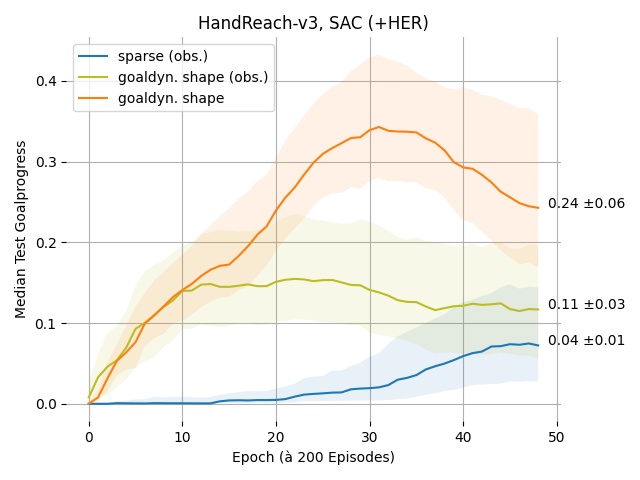
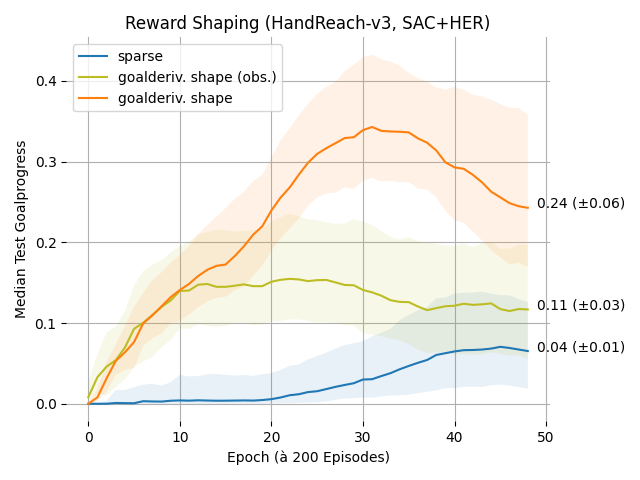
readme

diff --git a/src/custom_envs/mom_fetchpush/plot.py b/src/custom_envs/mom_fetchpush/plot.py
@@ -168,8 +168,18 @@ def smooth_iqr(multidata):
 # HAND REACH ======================= (sorted by performance)
 
 GP_sparse_HER_unobs_baseline = smooth_iqr([
+    '/home/t14/Documents/tuhh/dsf/Scilab-RL/data/09c63aa/shaped-handreach-v3/16-29-31/goalprogress.dat',
+    '/home/t14/Documents/tuhh/dsf/Scilab-RL/data/09c63aa/shaped-handreach-v3/16-33-58/goalprogress.dat',
+    '/home/t14/Documents/tuhh/dsf/Scilab-RL/data/09c63aa/shaped-handreach-v3/16-34-00/goalprogress.dat',
+    '/home/t14/Documents/tuhh/dsf/Scilab-RL/data/09c63aa/shaped-handreach-v3/16-34-02/goalprogress.dat',
+    '/home/t14/Documents/tuhh/dsf/Scilab-RL/data/09c63aa/shaped-handreach-v3/16-34-04/goalprogress.dat',
 ])
 SR_sparse_HER_unobs_baseline = smooth_iqr([
+    '/home/t14/Documents/tuhh/dsf/Scilab-RL/data/09c63aa/shaped-handreach-v3/16-29-31/success_rate.dat',
+    '/home/t14/Documents/tuhh/dsf/Scilab-RL/data/09c63aa/shaped-handreach-v3/16-33-58/success_rate.dat',
+    '/home/t14/Documents/tuhh/dsf/Scilab-RL/data/09c63aa/shaped-handreach-v3/16-34-00/success_rate.dat',
+    '/home/t14/Documents/tuhh/dsf/Scilab-RL/data/09c63aa/shaped-handreach-v3/16-34-02/success_rate.dat',
+    '/home/t14/Documents/tuhh/dsf/Scilab-RL/data/09c63aa/shaped-handreach-v3/16-34-04/success_rate.dat',
 ])
 
 GP_sparse_HER_obs_baseline = smooth_iqr([
@@ -304,42 +314,42 @@ SR_redesigned_reduced = smooth_iqr([
 
 
 all = { # C1
-    'sparse (obs.)': GP_sparse_HER_obs_baseline,
-    # 'sparse': GP_sparse_HER_unobs_baseline,
-    'goaldyn. shape (obs.)': GP_shaped_HER_obs,
-    'goaldyn. shape': GP_shaped_HER_unobs,
+    # 'sparse (obs.)': GP_sparse_HER_obs_baseline,
+    'sparse': GP_sparse_HER_unobs_baseline,
+    'goalderiv. shape (obs.)': GP_shaped_HER_obs,
+    'goalderiv. shape': GP_shaped_HER_unobs,
 }
 
 all = { # C2
-    'sparse (obs.)': GP_sparse_HER_obs_baseline,
-    'goaldyn. design': GP_redesigned_HER_unobs,
+    'sparse': GP_sparse_HER_unobs_baseline,
+    'goalderiv. design': GP_redesigned_HER_unobs,
 }
 
 all = { # C3
-    'sparse (obs.)': GP_sparse_HER_obs_baseline,
-    'goaldyn. design (augm.)': GP_redesigned_HER_augmented,
+    'sparse': GP_sparse_HER_unobs_baseline,
+    'goalderiv. design (augm.)': GP_redesigned_HER_augmented,
 }
 
 all = { # C4
-    'sparse (obs.)': GP_sparse_HER_obs_baseline,
-    # 'goaldyn. design (red.)': GP_redesigned_HER_reduced,
-    # 'goaldyn. design (red., no HER)': GP_redesigned_reduced,
+    'sparse': GP_sparse_HER_unobs_baseline,
+    # 'goalderiv. design (red.)': GP_redesigned_HER_reduced,
+    'goalderiv. design (red., no HER)': GP_redesigned_reduced,
 }
 
-all = { # C2, C3, C4
-    'sparse (obs.)': GP_sparse_HER_obs_baseline,
-    'goaldyn. shape': GP_shaped_HER_unobs,
-    'goaldyn. design': GP_redesigned_HER_unobs,
-    'goaldyn. design (augm.)': GP_redesigned_HER_augmented,
-    'goaldyn. design (red., no HER)': GP_redesigned_reduced,
-}
+# all = { # C2, C3, C4
+#     'sparse': GP_sparse_HER_unobs_baseline,
+#     'goalderiv. shape': GP_shaped_HER_unobs,
+#     'goalderiv. design': GP_redesigned_HER_unobs,
+#     'goalderiv. design (augm.)': GP_redesigned_HER_augmented,
+#     'goalderiv. design (red., no HER)': GP_redesigned_reduced,
+# }
 
-# all = { # C4 (successrate)
-#     'sparse (obs.)': SR_sparse_HER_obs_baseline,
-#     'goaldyn. shape': SR_shaped_HER_unobs,
-#     'goaldyn. design': SR_redesigned_HER_unobs,
-#     'goaldyn. design (augm.)': SR_redesigned_HER_augmented,
-#     'goaldyn. design (red., no HER)': SR_redesigned_reduced,
+# all = { # C2, C3, C4 (successrate)
+#     'sparse': SR_sparse_HER_unobs_baseline,
+#     'goalderiv. shape': SR_shaped_HER_unobs,
+#     'goalderiv. design': SR_redesigned_HER_unobs,
+#     'goalderiv. design (augm.)': SR_redesigned_HER_augmented,
+#     'goalderiv. design (red., no HER)': SR_redesigned_reduced,
 # }
 
 
@@ -348,13 +358,13 @@ metric = pd.concat(metric, axis=1, ignore_index=True)
 metric.columns = all.keys()
 
 colormap = {
-    'sparse (obs.)': '#1f77b4',
-    'sparse': '#17becf',
-    'goaldyn. shape (obs.)': '#bcbd22',
-    'goaldyn. shape': '#ff7f0e',
-    'goaldyn. design': '#2ca02c',
-    'goaldyn. design (augm.)': '#d62728',
-    'goaldyn. design (red., no HER)': '#9467bd',
+    'sparse (obs.)': '#17becf',
+    'sparse': '#1f77b4',
+    'goalderiv. shape (obs.)': '#bcbd22',
+    'goalderiv. shape': '#ff7f0e',
+    'goalderiv. design': '#2ca02c',
+    'goalderiv. design (augm.)': '#d62728',
+    'goalderiv. design (red., no HER)': '#9467bd',
     # '#8c564b',
     # '#e377c2',
     # '#7f7f7f',
@@ -364,7 +374,7 @@ colormap = {
 colors = [colormap[key] for key in all.keys()]
 
 ax = metric.plot(color=colors)
-ax.set_title('HandReach-v3, SAC (+HER)')
+ax.set_title('Observation Reduction (HandReach-v3, SAC+HER)')
 ax.set_ylabel('Median Test Goalprogress')
 ax.set_xlabel('Epoch (à 200 Episodes)')
 ax.set_prop_cycle(plt.cycler(color=colors))
@@ -375,7 +385,7 @@ ax.set_axisbelow(True)
 # iqr
 for ex in all.values():
     ax.fill_between(x=ex['epoch'], y1=ex['q25'], y2=ex['q75'], alpha=0.1)
-    ax.text(x=49, y=ex['metric'].tail(1), s=f"{ex.attrs['aucs_mean']} ±{ex.attrs['aucs_std']}")
+    ax.text(x=49, y=ex['metric'].tail(1), s=f"{ex.attrs['aucs_mean']} (±{ex.attrs['aucs_std']})")
 
 # plt.gca().set_color_cycle(['red', 'green', 'blue', 'yellow'])
 plt.tight_layout()

diff --git a/src/custom_envs/goaldyn_handreach/shaped_handreach_env.py b/src/custom_envs/goaldyn_handreach/shaped_handreach_env.py
@@ -68,12 +68,12 @@ class ShapedHandReachEnv(MujocoHandReachEnv):
 
 
         # obs reduce
-        IS_OBS_REDUCE = False
+        IS_OBS_REDUCE = True
         if IS_OBS_REDUCE:
             obs = np.array([])
 
         # full-obs
-        IS_OBS_AUG = False
+        IS_OBS_AUG = True
         if IS_OBS_AUG:
             obs = np.append(obs, goaldelta)
             obs = np.append(obs, goaldeltas_recent)
@@ -139,7 +139,7 @@ class ShapedHandReachEnv(MujocoHandReachEnv):
         reward = self.compute_reward(observation['achieved_goal'], observation['desired_goal'], info)
 
         # reward-design (inside vs. outside HER)
-        IS_REWARD_REDESIGN = False
+        IS_REWARD_REDESIGN = True
         if IS_REWARD_REDESIGN:
             reward = 0
             # soft vs. hard dynamics ("get close fast")

diff --git a/src/main.py b/src/main.py
@@ -133,7 +133,7 @@ def  get_algo_instance(cfg, logger, env):
     from torch import nn
     from custom_envs.le_humanoid_hand.CustomAttentionPolicy import CustomAttentionPolicy
 
-    alg_kwargs['policy_kwargs']['activation_fn'] = nn.ReLU
+    alg_kwargs['policy_kwargs']['activation_fn'] = nn.Tanh
 
     # policy_kwargs = dict(
 

diff --git a/README.md b/README.md
@@ -125,51 +125,58 @@ $$
 increased the training **sample efficiency**, defined as the area under the curve (AUC) of the test *goalprogress*
 
 $$
-P = \frac{d_0 - d_{end}}{d_0}\qquad (0 \le P \le 1) \\
+\begin{split}
+P = \frac{d_0 - d_{end}}{d_0}\qquad (0 \le P \le 1) \\ 
 (d_{end} := \text{goaldistance at the end of the episode}),
+\end{split}
 $$
 
 by factor **2.75** (Fig. 1: yellow line) compared to the unshaped baseline reward (Fig. 1: blue line) (median). The details of the experiments are described in the full work.
 
-[<img src="res/c1_goalprogress.png" width="100%"/>](res/c1_goalprogress.png) | 
-|:--:| 
-| Fig. 1: *Median test goalprogress (line) with interquartile range (shaded area) and mean AUC±std (label)* |
 
+[<img src="res/c1_goalprogress.png" />](res/c1_goalprogress.png) \
+**Fig. 1:** *Median test goalprogress by reward shaping (yellow and orange line) with interquartile range (IQR, shaded area) and mean AUC (±s.d., label)*
 
-Note: With potential-based shaping, this claim theoretically requires that the goaldistance and the DGS are part of the observable state space, which is a separate focus in this research. In the experiments, the efficiency gains with non-observable goaldistance and DGS were even more substantial with factor **6** (Fig. 1: orange line), i.e. possibly justifying the theoretical violation of the Markov assumption.
+Note: With potential-based shaping, this claim theoretically requires that the goaldistance and the DGS are part of the observable state space, which is a separate focus in this research. However, in the experiments, the efficiency gains with non-observable goaldistance and DGS were even greater with factor **6** (Fig. 1: orange line) compared to the baseline, i.e. possibly justifying the violation of the Markov assumption.
 
 
 > **Research Claim 2** (Goalderivative Reward Design)
 > 
 > In goal-oriented RL training towards an optimal policy, by designing rewards based on the DGS vector, the training can be more efficient.
 
-(Formal Proof)
-
-(Experimental Proof)
-(fetchpush)
+[<img src="res/c2_goalprogress.png" />](res/c2_goalprogress.png) \
+**Fig. 2:** *Median test goalprogress by reward design (green line) with IQR (shaded area) and mean AUC (±s.d., label)*
 
 
 > **Research Claim 3** (Goalkinematic Observation Augmentation)
 > 
 > In goal-oriented RL training towards an optimal policy, by adding goalkinematic information to the observation space, the training can be more efficient.
 
-(adding to the markov property)
-
-(Formal Proof?)
-
-(Experimental Proof)
-(fetchpush)
+[<img src="res/c3_goalprogress.png" />](res/c3_goalprogress.png) \
+**Fig. 3:** *Median test goalprogress by obs. augmentation (red line) with interquartile range (shaded area) and mean AUC (±s.d., label)*
 
 
 > **Research Claim 4** (Goalkinematic Observation Reduction)
 > 
 > In goal-oriented RL training towards an optimal policy, by reducing the observation space to contain *only* goalkinematic information, the training can be successful, more efficient and more general.
 
-define success (vs. goalprogress)
-define general
+[<img src="res/c4_goalprogress.png" />](res/c4_goalprogress.png) \
+**Fig. 4:** *Median test goalprogress by obs. reduction (magenta line) with IQR (shaded area) and mean AUC (±s.d., label)*
 
-(Experimental Proof)
-(fetchpush)
+[<img src="res/c4_design_reduced_noHer_10k_train.gif" />](res/c4_design_reduced_noHer_10k_train.gif) | [<img src="res/c4_design_reduced_noHer_500k_eval.gif" />](res/c4_design_reduced_noHer_500k_eval.gif) | 
+|:--:| :--:| 
+| *Real-time screen recording of 9e3 rendered training steps directly after learning of the networks started for the first time (**blank policy**)* | *Real-time screen recording of rendered evaluation steps after 5e5 training steps (**trained policy**)*
+
+> **Summary** 
+>
+> ...
+
+[<img src="res/c1234_goalprogress.png" />](res/c1234_goalprogress.png) \
+**Fig. 5:** *Median test goalprogress overview (line) with IQR (shaded area) and mean AUC (±s.d., label)*
+
+[<img src="res/c1234_successrate.png" />](res/c1234_successrate.png) \
+**Fig. 6:** *Median test success rate overview (line) with IQR (shaded area) and mean AUC (±s.d., label)*
+
 
 
 ## Case Study: Fluent Visual Imitation of Hand Gestures by a Robotic Hand (Multi-Goal RL with Multi-Dimensional Goals)
@@ -206,15 +213,19 @@ define general
 * "proving" imgs
 * "proving" graphs (eg. training process metric?)
 * "proving" gifs (eg. sped up training process video?)
+* "proving" code snippets
 * disclaimer (autonomity)
 * license
 
 * dense HER baseline, too?
 * goalprogress vs. success
 * (compare/combine with HER, vs. (normalized) multi-dim. goals w/o threshold, ie. inexact goals with different reachable (unknown) thresholds, adaptability/generality to unseen goals (interpolative vs. extrapolative))
+* C3: adding to the markov property
+* C4: define success (vs. goalprogress), define general
 * C2,C3 w/o HER
 * C4 w/ HER
 * sparse baseline unobs.
+* formal proofs?
 
 
 ## References
